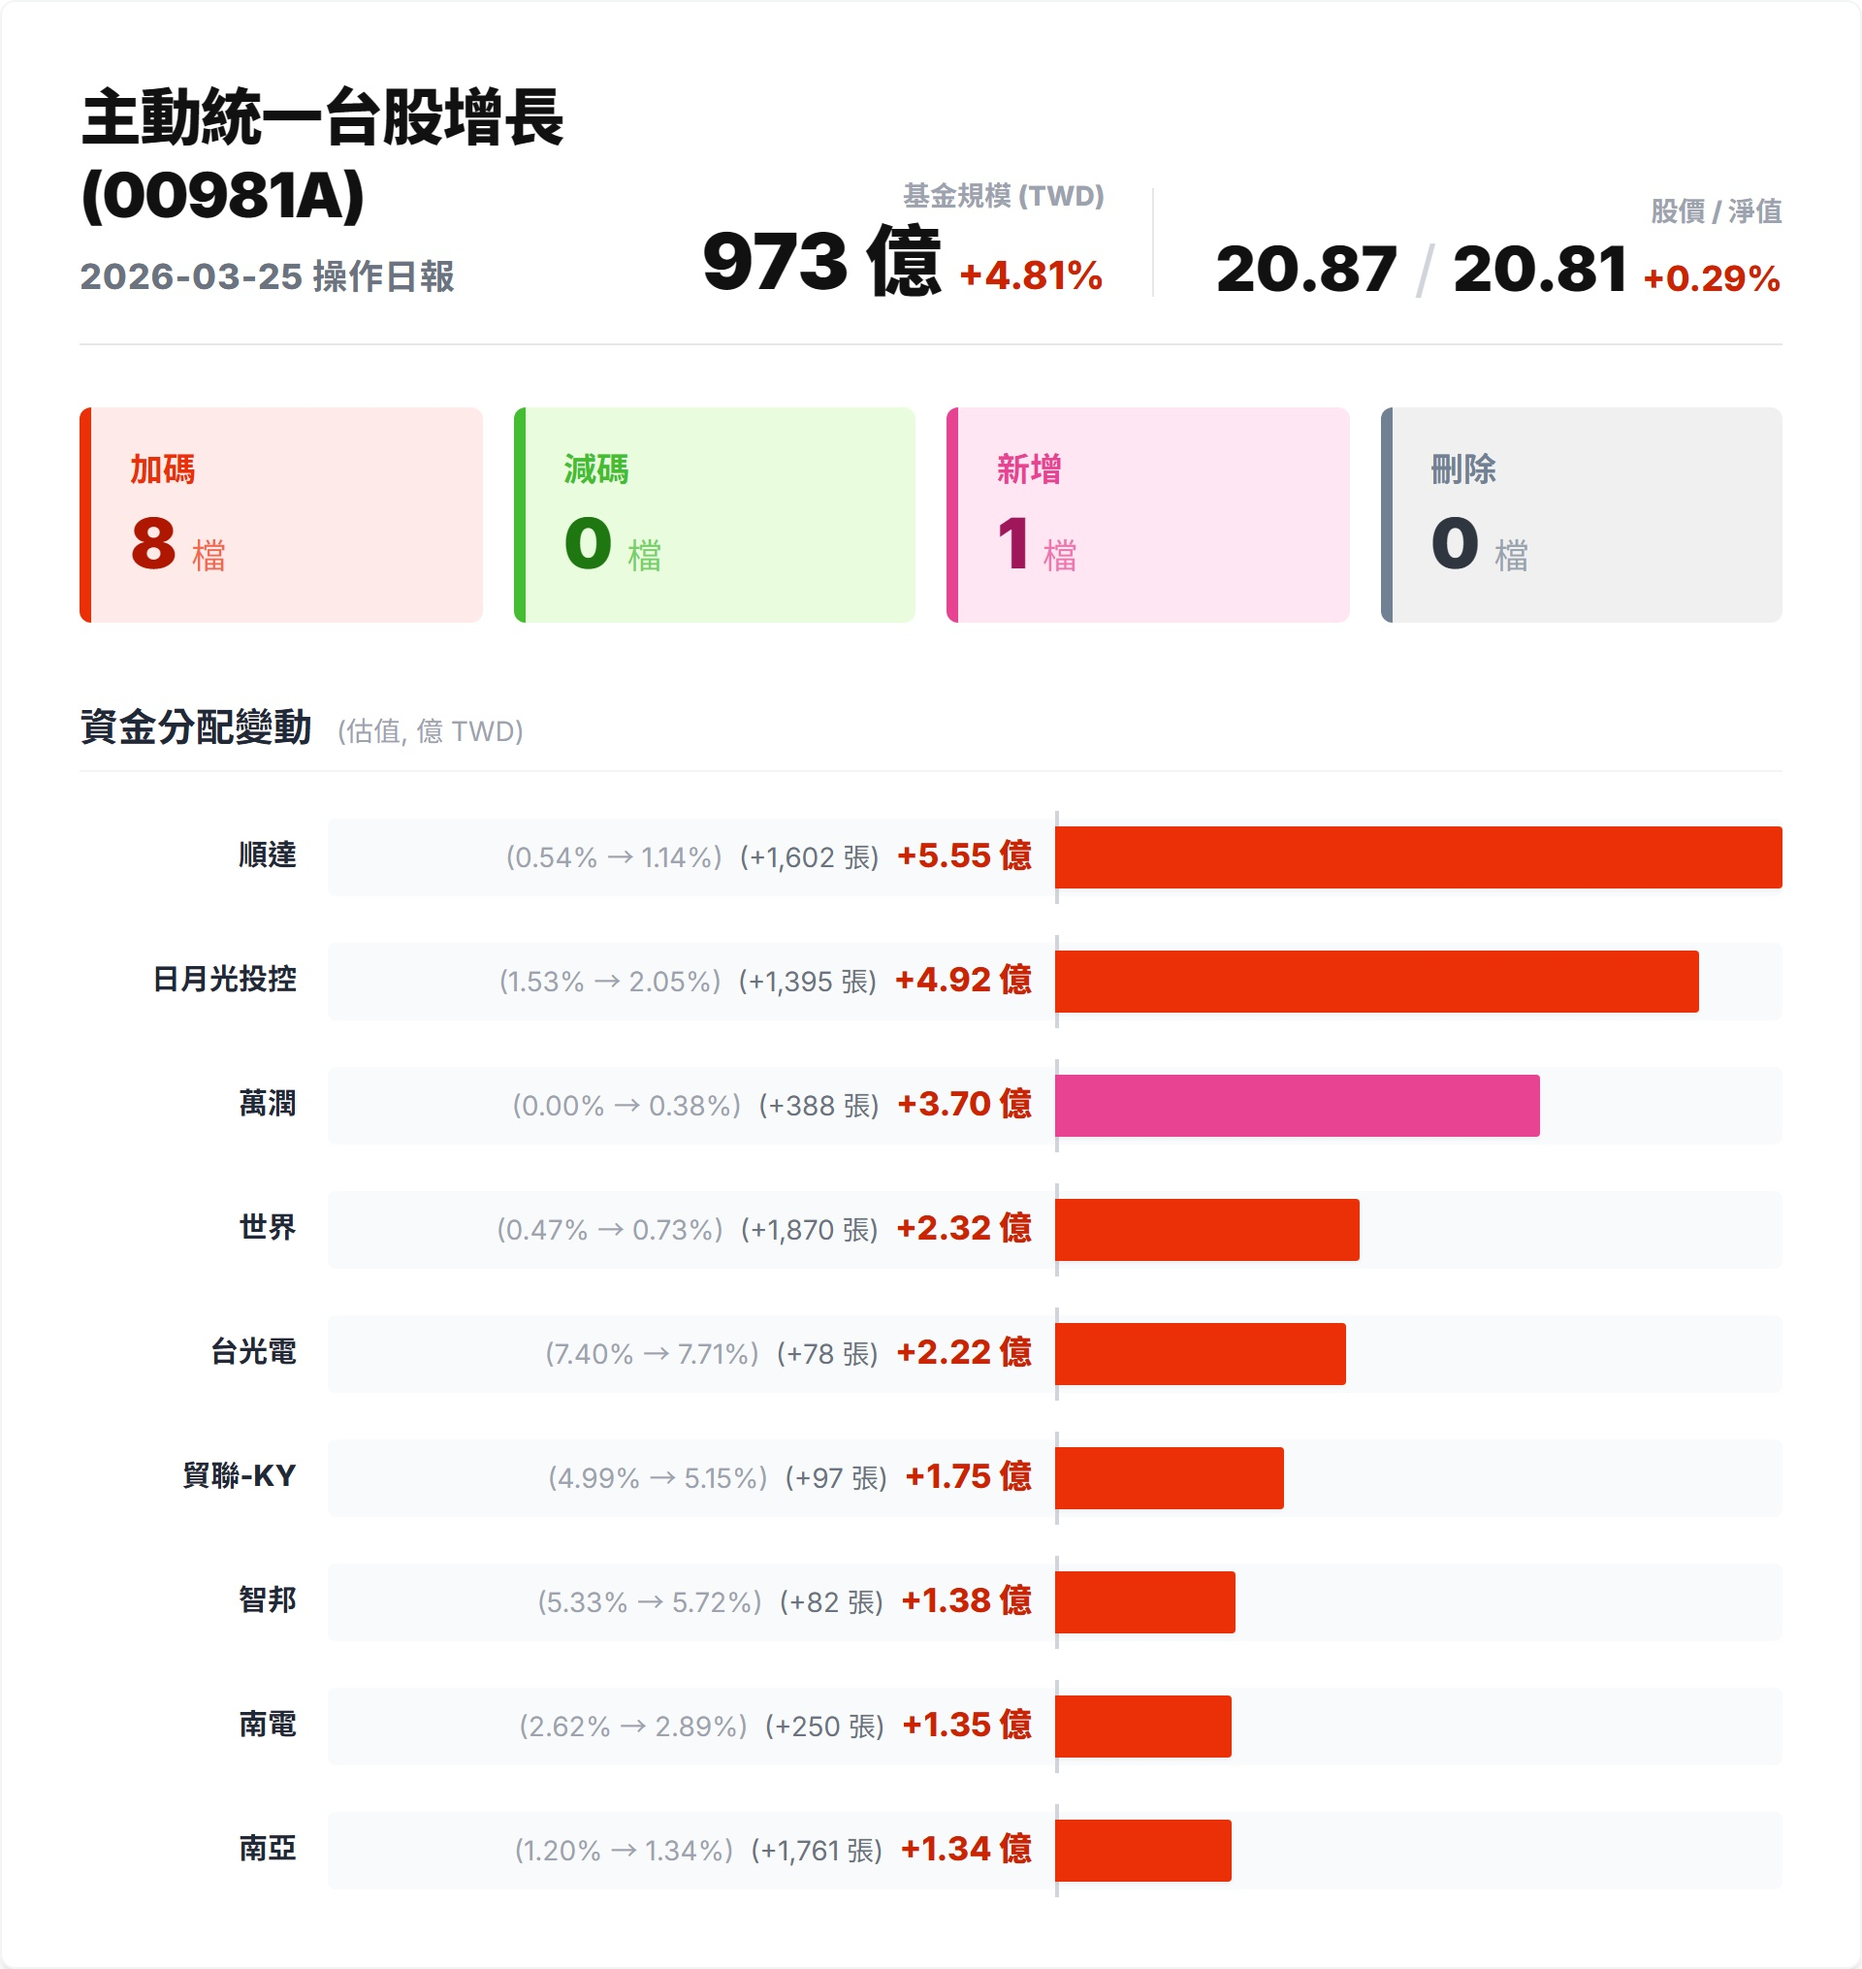
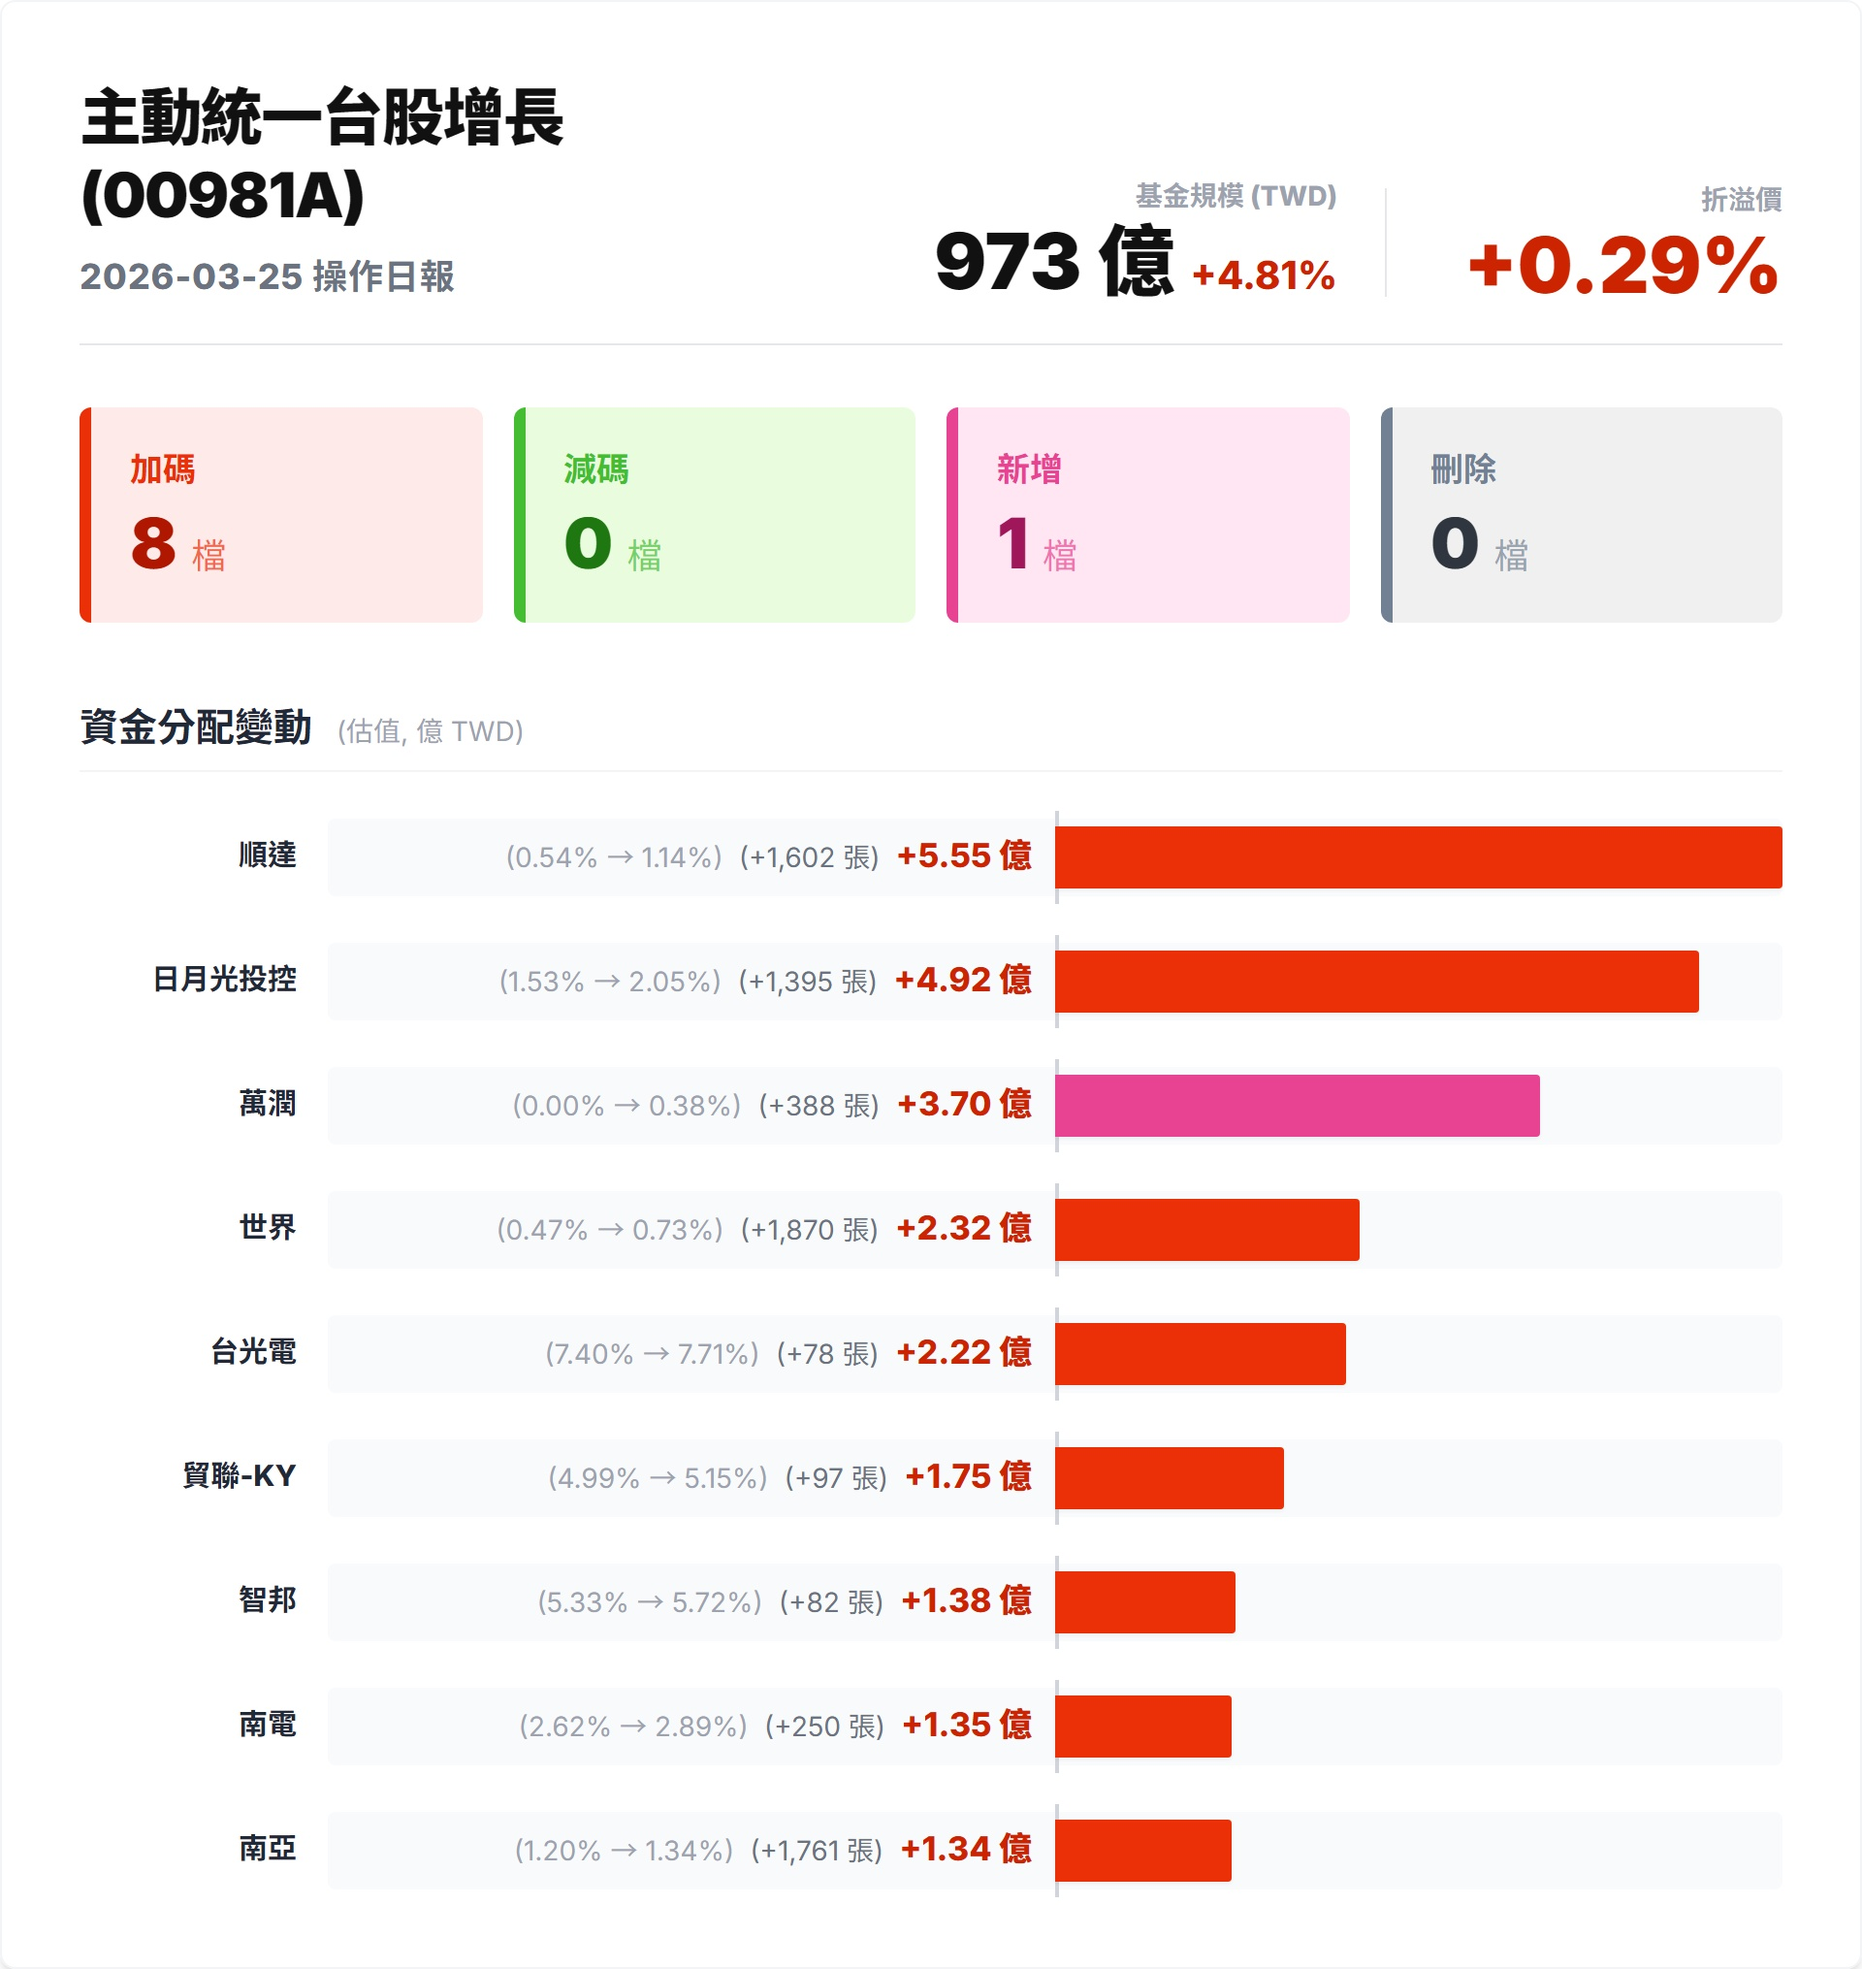
Revert Premium metric to display only the percentage

Changed region(s): [[0.375, 0.0931, 0.75, 0.1552], [0.7812, 0.0931, 0.9688, 0.1552]]

diff --git a/scripts/generate_etf_summary.py b/scripts/generate_etf_summary.py
@@ -112,12 +112,11 @@ def render_html(title, data_curr, date_curr, data_prev, date_prev, out_html):
                 <!-- Separator -->
                 <div class="h-14 w-px bg-gray-200 mx-2 mb-1"></div>
                 
-                <!-- Metric 2: Price / NAV -->
-                <div class="text-right pl-2">
-                    <p class="text-sm font-bold text-gray-400 mb-1">股價 / 淨值</p>
-                    <div class="flex items-baseline justify-end space-x-2">
-                        <span class="text-[32px] leading-none font-black text-[#111111] whitespace-nowrap">{price_c:.2f} <span class="text-gray-300 font-normal mx-0.5">/</span> {nav_c:.2f}</span>
-                        <span class="text-[18px] font-bold {prem_color_class} whitespace-nowrap">{prem_str}</span>
+                <!-- Metric 2: Premium -->
+                <div class="text-right pl-4">
+                    <p class="text-sm font-bold text-gray-400 mb-1">折溢價</p>
+                    <div class="flex items-center justify-end">
+                        <span class="text-[40px] leading-none font-black {prem_color_class} whitespace-nowrap">{prem_str}</span>
                     </div>
                 </div>
             </div>
